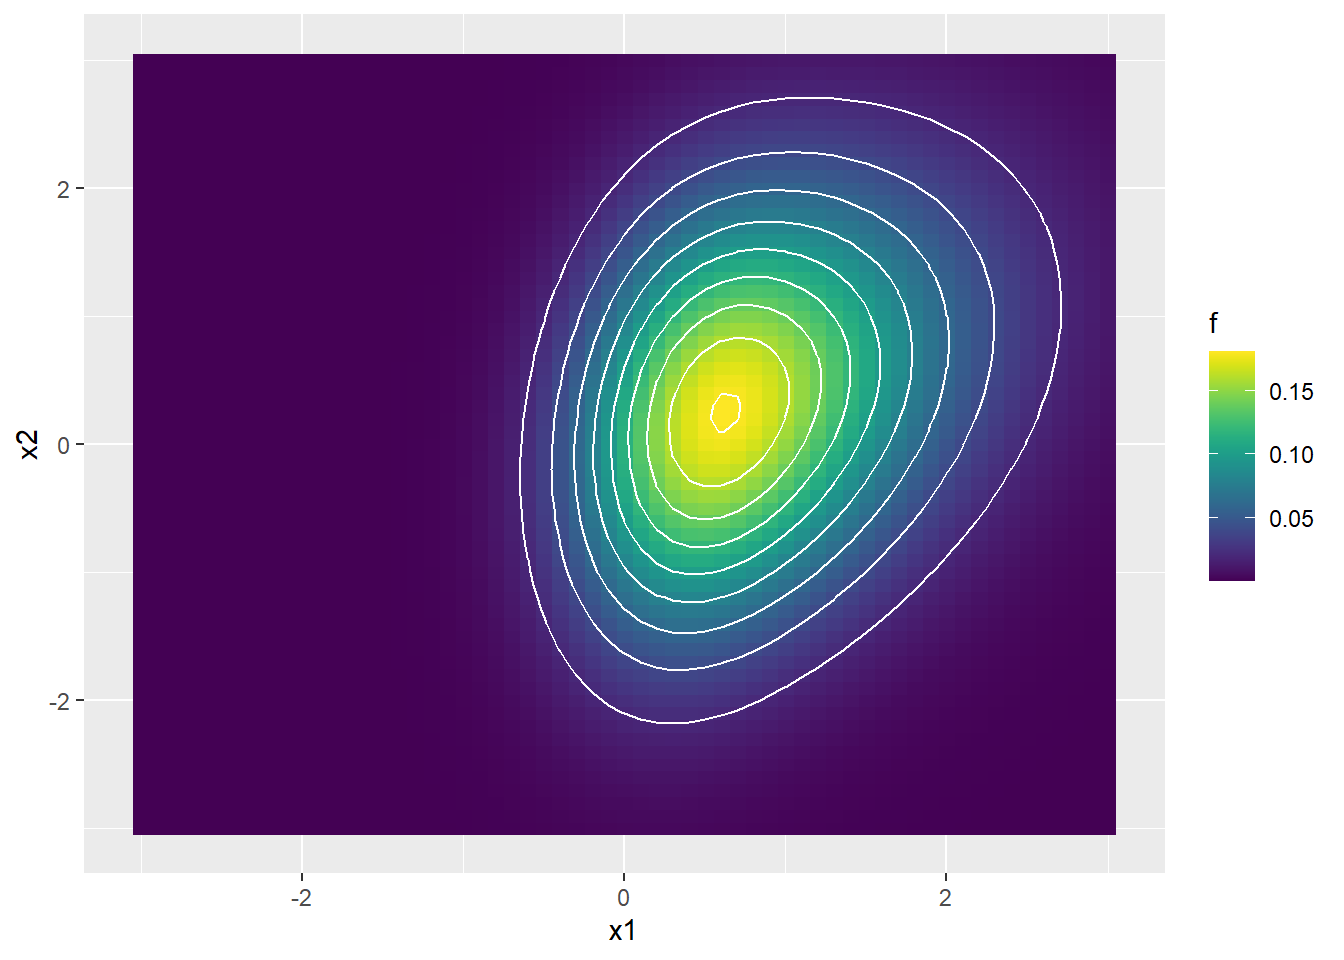
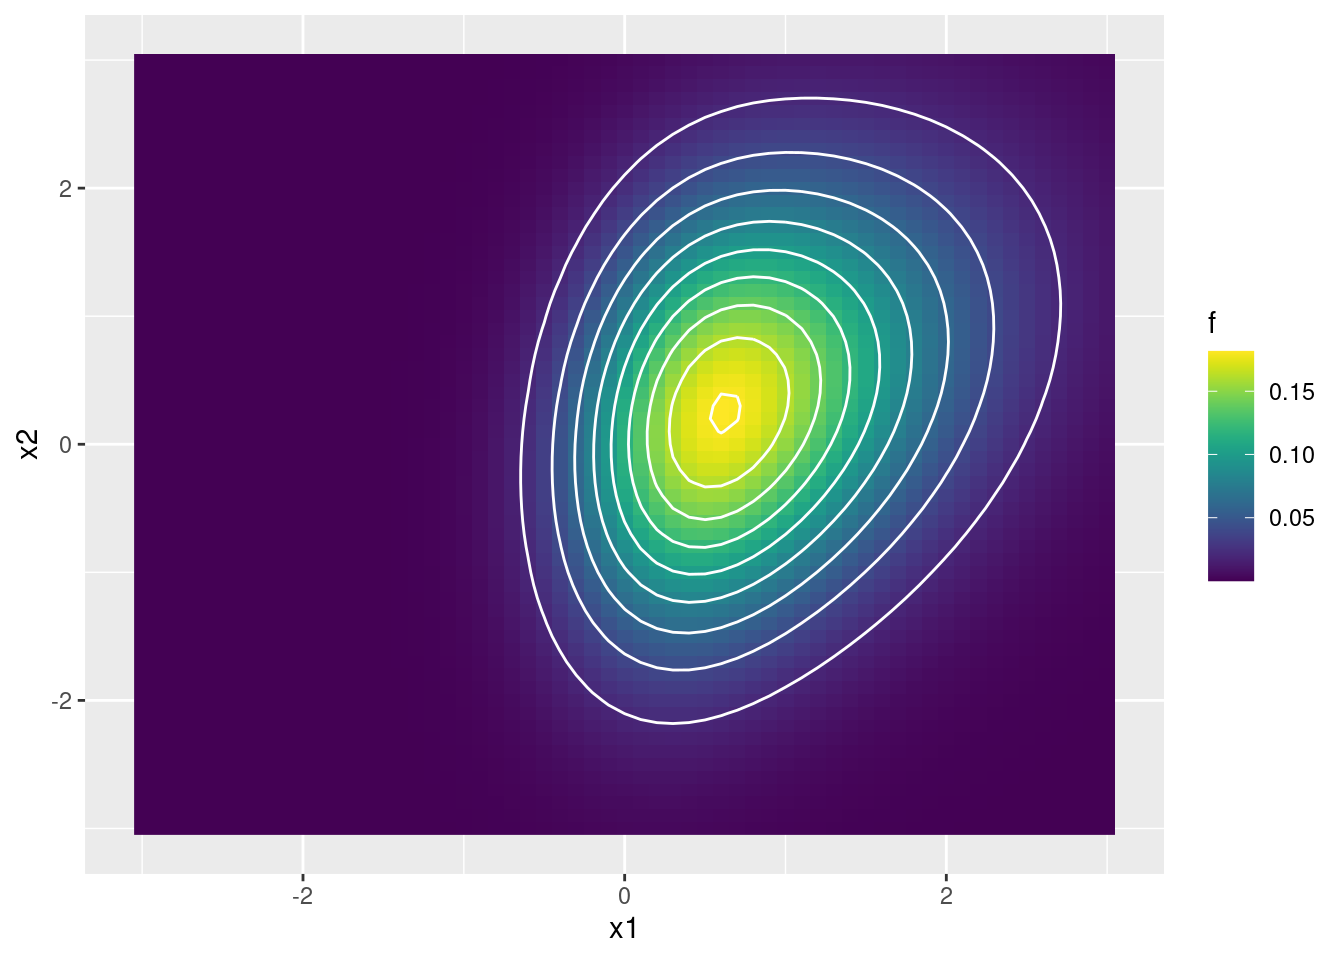
Built site for gh-pages

diff --git a/trabajos_practicos/02_tp2.html b/trabajos_practicos/02_tp2.html
@@ -178,7 +178,7 @@ ul.task-list li input[type="checkbox"] {
 </div>
 <section id="metropolis-hastings-en-1d" class="level1">
 <h1>Metropolis-Hastings en 1D</h1>
-<p>El algoritmo de Metropolis-Hastings permite obtener muestras de una distribución de probabilidad <span class="math inline">\(f^*(\theta)\)</span>, incluso aunque esta sea impropia (es decir, incluso aunque sea desconocida la constante de normalización que hace que la integral en el soporte de la función sea nula). Basta con que podamos evaluar <span class="math inline">\(f^*(\theta)\)</span> en cualquier valor de <span class="math inline">\(\theta\)</span>.</p>
+<p>El algoritmo de Metropolis-Hastings permite obtener muestras de una distribución de probabilidad <span class="math inline">\(f^*(\theta)\)</span>, incluso aunque esta sea impropia (es decir, incluso aunque sea desconocida la constante de normalización que hace que la integral en el soporte de la función sea igual a uno). Basta con que podamos evaluar <span class="math inline">\(f^*(\theta)\)</span> en cualquier valor de <span class="math inline">\(\theta\)</span>.</p>
 <ol type="1">
 <li><p>Escriba una función que implemente el algoritmo de Metropolis-Hastings para tomar muestras de una función de probabilidad unidimensional dada. Separe en funciones cada una de los pasos del algoritmo. Otorgue flexibilidad al algoritmo permitiendo elegir diferentes distribuciones de propuesta de transición: normal de una varianza dada y beta de una determinada concentración.</p></li>
 <li><p>Utilizando la función propuesta, obtener 3000 muestras de la distribución dada por</p>
@@ -186,12 +186,12 @@ ul.task-list li input[type="checkbox"] {
 g^*(x) =
 \left\{
 \begin{array}{ll}
-x^4 e^{-x} &amp;&amp; \text{si } x\geq0 \\
-0 &amp;&amp; \text{si } x&lt;0
-\end{array}
+    x^4 e^{-x} &amp;&amp; \text{si } x \geq 0 \\
+    0 &amp;&amp; \text{si } x&lt;0
+    \end{array}
 \right.
 \]</span></p>
-<p>Compare las cadenas obtenidas al utilizar diversas distribuciones de propuesta de transición: tres normales de varianzas diferentes y tres betas de concentración diferente. Compare utilizando histogramas, funciones de autocorrelación, Elegir como punto inicial…</p></li>
+<p>Compare las cadenas obtenidas al utilizar diversas distribuciones de propuesta de transición: tres normales de varianzas diferentes y tres betas de concentración diferente. Compare utilizando histogramas, funciones de autocorrelación. Elegir como punto inicial…</p></li>
 <li><p>Utilizando cada una de las seis cadenas anteriores, compute la media de la distribución, los percentiles 5 y 95 , y la esperanza de <span class="math inline">\(\sqrt{X}\)</span> sabiendo que <span class="math inline">\(X\)</span> se distribuye según <span class="math inline">\(g^*(x)\)</span></p></li>
 <li><p>Estimar el MCSE de los valores de <span class="math inline">\(\mathbb{E}(X)\)</span> para cada una de las seis cadenas anteriores.</p></li>
 <li><p>Calcular el estadístico de Gelman-Rubin</p>
@@ -202,7 +202,7 @@ h^*(x) =
 \]</span></p></li>
 <li><p>Considere un experimento binomial a partir del cual se quiere determinar la probabilidad de éxito <span class="math inline">\(\theta\)</span>. Se realiza el experimento se obtienen 6 éxitos en 10 intentos. Obtenga la distribución <em>a posteriori</em> de <span class="math inline">\(\theta\)</span> y la creencia <em>a priori</em> viene dada por</p>
 <p><span class="math display">\[
-p(\theta) = 2\theta\qquad \theta\in[0,1]
+p(\theta) = 2 \theta \qquad \theta \in [0,1]
 \]</span></p></li>
 </ol>
 <section id="metropolis-hastings-en-2d" class="level2">
@@ -210,16 +210,18 @@ p(\theta) = 2\theta\qquad \theta\in[0,1]
 <p>Se desean tomar muestras de una normal bivariada asimétrica cuya función de densidad viene dada por</p>
 <p><span class="math display">\[
 f(\mathbf{x}) = 2\ \phi_2(\mathbf{x}\mid\mathbf{0},\mathbf{\Omega})\ \Phi(\mathbf{\alpha}^T\mathbf{x}) \qquad \mathbf{x} \in \mathbb{R}^2
-\]</span>siendo <span class="math inline">\(\phi_2(\mathbf{x}\mid\mathbf{0},\mathbf{\Omega})\)</span> la función de densidad de la normal bivariada de media <span class="math inline">\(\mathbf{0}\)</span> y matriz de covarianza <span class="math inline">\(\mathbf{\Omega}\)</span>, <span class="math inline">\(\Phi(\mathbf{\alpha}^T\mathbf{x})\)</span> es la función de probabilidad acumulada de la normal estándar <span class="math inline">\(\mathcal{N}(0,1)\)</span> y <span class="math inline">\(\alpha\in\mathbb{R}^2\)</span> es un vector de parámetros.</p>
+\]</span></p>
+<p>siendo <span class="math inline">\(\phi_2(\mathbf{x}\mid\mathbf{0},\mathbf{\Omega})\)</span> la función de densidad de la normal bivariada de media <span class="math inline">\(\mathbf{0}\)</span> y matriz de covarianza <span class="math inline">\(\mathbf{\Omega}\)</span>, <span class="math inline">\(\Phi(\mathbf{\alpha}^T\mathbf{x})\)</span> es la función de probabilidad acumulada de la normal estándar <span class="math inline">\(\mathcal{N}(0,1)\)</span> y <span class="math inline">\(\alpha\in\mathbb{R}^2\)</span> es un vector de parámetros.</p>
 <!--# http://gregorygundersen.com/blog/2020/12/29/multivariate-skew-normal/ -->
 <p>En este caso, se tiene:</p>
 <p><span class="math display">\[
 \mathbf{\Omega} = \begin{bmatrix}1.5 &amp; 0.6 \\ 0.6 &amp; 1.5 \end{bmatrix}
-\]</span> y</p>
+\]</span></p>
+<p>y</p>
 <p><span class="math display">\[
 \mathbf{\alpha} = [2\quad 0]
 \]</span></p>
-<div class="cell" data-hash="02_tp2_cache/html/unnamed-chunk-1_cd6c6c4cab87b4b819a1d99f0664ec5d">
+<div class="cell" data-hash="02_tp2_cache/html/unnamed-chunk-1_baf20e6746c2c0aefd50be05e0a77d4d">
 <div class="cell-output-display">
 <div class="quarto-figure quarto-figure-center">
 <figure class="figure">
